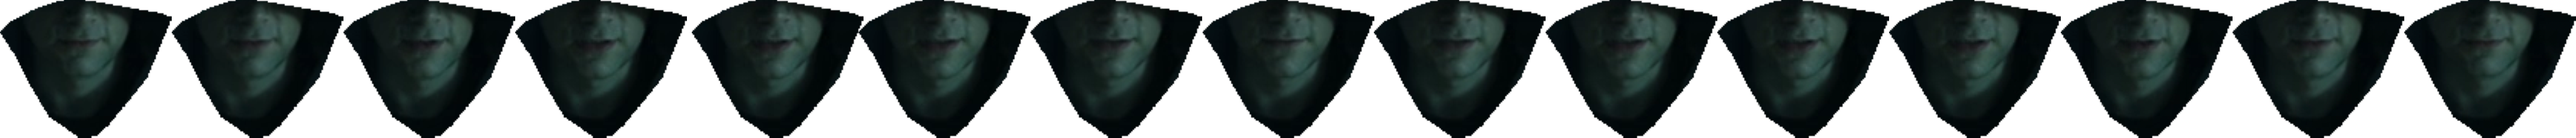
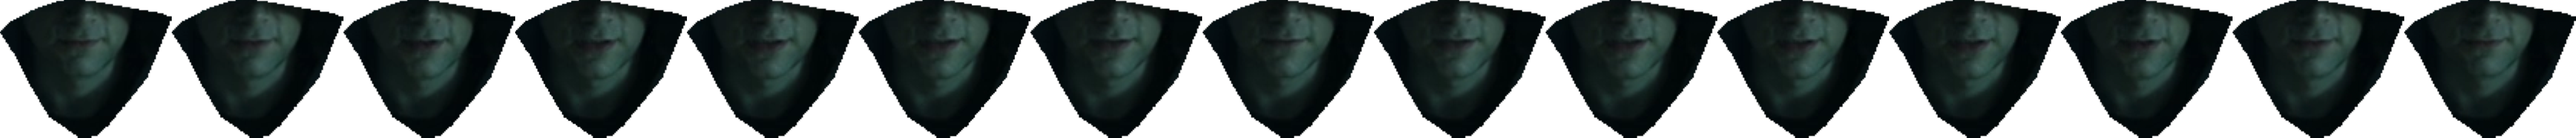
calibrate animation

Changed region(s): [[0.2797, 0.0, 0.3418, 0.5614], [0.2797, 0.8702, 0.3107, 1.0]]

diff --git a/sources/CodecRender.cpp b/sources/CodecRender.cpp
@@ -1,7 +1,7 @@
 #include "CodecRender.hpp"
 
 const sf::Vector2u CodecRender::_spriteSize = sf::Vector2u(354, 285);
-const sf::Vector2f CodecRender::_position   = sf::Vector2f(541, 281);
+const sf::Vector2f CodecRender::_position   = sf::Vector2f(558, 291);
 
 CodecRender::CodecRender(const std::string & filename, const std::string & bgmusic, const sf::Vector2f & scale)
 	: mysf::GraphicRender()
@@ -114,7 +114,7 @@ bool CodecRender::initTalker()
 
 	for (unsigned int i = 0; i < _talker.getTexture()->getSize().x / _spriteSize.x; ++i)
 		_talker.addFrame(sf::IntRect(i * _spriteSize.x, 0, _spriteSize.x, _spriteSize.y));
-	_talker.setFrameTime(sf::seconds(0.1f));
+	_talker.setFrameTime(sf::seconds(_animFrameTime));
 	_talker.stop();
 
 	_middleground.addChild(_talker);

diff --git a/includes/CodecRender.hpp b/includes/CodecRender.hpp
@@ -53,6 +53,7 @@ private:
 	sf::Music _music;
 
 	static constexpr float _musicVolume = 100.f;
+	static constexpr float _animFrameTime = 0.085f;
 	static const sf::Vector2u _spriteSize;
 	static const sf::Vector2f _position;
 };
